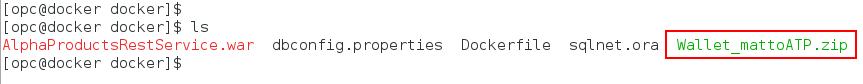
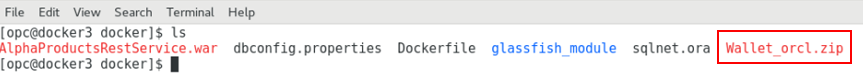
Q/A on Lab 200 fixes and image updates

diff --git a/lab-guides/LabGuide200.md b/lab-guides/LabGuide200.md
@@ -163,7 +163,7 @@ vi dockerkey.pub
 
  ![](images/200/27.PNG)
 
-- **You will (Leave Default) or Type** the following in the `Create Compute Instance` section of the dialog:
+- Type the following in the **Create Compute Instance** section of the dialog:
 
   ```
   Name: Docker
@@ -204,7 +204,7 @@ vi dockerkey.pub
   ```
   cd /home/opc
   chmod 600 dockerkey
-  ssh -i ./dockerkey opc@129.213.119.105
+  ssh -i ./dockerkey opc@<Paste in Your Public IP>
   ```
 
   ![](images/200/37.PNG)
@@ -218,20 +218,22 @@ Docker and GIT are required for the subsuquent labs. You will install the Docker
   ```
   sudo -s
   yum install docker-engine
+  ```
+
+- _During the **yum install docker-engine** command press **Y** when asked if installation is ok._ Screenshot at the end of the Docker installation:
+
+   ![](images/200/38.PNG)
+
+- Next grant the proper privileges to the opc user.
+  ```
   usermod -aG docker opc
   systemctl enable docker
   systemctl start docker
   ```
 
-- **NOTE:** During the `yum install docker-engine` command press `Y` when asked if installation is ok.
-
-- Screenshot at the end of the Docker installation:
-
-   ![](images/200/38.PNG)
-
    ![](images/200/39.PNG)
 
-- **Type** the following:
+- **Type** the following, select **Y** when asked if it is ok to install:
 
   ```
   yum install git
@@ -290,11 +292,11 @@ Set the server to Permissive mode and also ensure that permissive mode survives 
   ![](images/200/44.PNG)
 
 
-# Deploy the AlphaOffice Application using Docker
+# Deploy the AlphaOffice REST Services using Docker
 
-In this section you will again clone the github repository as you did in Lab 100. It contains a Java REST Application that queries the database. Then, you will modify the configuration to point to your ATP database. After successful testing you will create a new Docker image.
+In this section you will clone a github repository that contains a Java REST Application. Then, you will modify the configuration to point to your ATP database. After successful testing you will create a new Docker image.
 
-## Deploy AlphaOffice Product Catalog Application
+## Deploy AlphaOffice REST Services
 
 ### **STEP 1**: Clone the git repository and copy the wallet file
 
@@ -303,33 +305,37 @@ In this section you will again clone the github repository as you did in Lab 100
 - **Type OR Copy and Paste**:
 
   ```
+  cd ~
   git clone https://github.com/derekoneil/monolithic-to-microservice.git
   ```
 
   ![](images/200/45.PNG)
 
-- From the directory you just cloned the repository into **Type**: (Command assumes your in the $HOME directory /home/opc)
-
+- From the directory you just cloned the repository into **Type**:
   ```
   cd monolithic-to-microservice/lab-resources/docker
   ```
 
-- Here you will find the baseline `AlphaProductsRestService.war` file, `dbconfig.properties`, `sqlnet.ora` and a `Dockerfile`:
-
+- Type **ls** and browse the baseline **AlphaProductsRestService.war** file, **dbconfig.properties**, **sqlnet.ora** and a **Dockerfile**:
+  ```
+  ls
+  ```
   ![](images/200/46.PNG)
 
-- **FROM YOUR VNC CLIENT**: Open up another Terminal session, CD to where your dockerkey file is and then copy the database wallet file you downloaded in Lab 100  (Recall that the file is in `/home/opc/Downloads`). You will scp this wallet file into the `/home/opc/monolithic-to-microservice/lab-resources/docker` directory within your OCI VM.
+- Open up a new Terminal window by Right-click on the Desktop and select **Open Terminal**
 
-  **NOTE:** If your wallet file is a different name than **Wallet_orcl.zip** then substitute your name as appropriate. This example uses `Wallet-mattoATP`:
+  ![](images/100/image01.png)
+
+
+- Copy the database wallet file you downloaded in Lab 100  (Recall that the file is in `/home/opc/Downloads`). You will scp this wallet file into the `/home/opc/monolithic-to-microservice/lab-resources/docker` directory.
 
   ```
-  cd <into the location where your dockerkey file is>
-  scp -i ./dockerkey /home/opc/Downloads/Wallet-mattoATP.zip opc@<YOUR-PUBLIC-IP>:/home/opc/monolithic-to-microservice/lab-resources/docker
+  scp -i ./dockerkey /home/opc/Downloads/Wallet_orcl.zip opc@<YOUR-PUBLIC-IP>:/home/opc/monolithic-to-microservice/lab-resources/docker
   ```
 
   ![](images/200/46-1.1.PNG)
 
-- **BACK IN YOUR SSH SESSION**: The wallet file should now be in the `/home/opc/monolithic-to-microservice/lab-resources/docker` directory on the OCI VM:
+- **Return the the ssh session connected into your OCI VM.** and type **ls**. You should see the wallet file in the directory before proceeding.
 
   ![](images/200/46-1.3.PNG)
 
@@ -337,7 +343,10 @@ In this section you will again clone the github repository as you did in Lab 100
 
 In this step you are going to edit the `dbconfig.properties` file to add your database instance connection name.
 
-- Using **vi** edit the **dbconfig.properties** file and add your connection property. In this example the ATP DB instance called `mattoATP` is used. The DB Connection information can be found in the OCI Console under your ATP database instance link.
+- Using **vi** edit the **dbconfig.properties** file and add your connection property.
+```
+vi dbconfig.properties
+```
 
 - From the OCI console select the **hamburger menu** in the upper left hand side on the page. Click the **Autonomous Transaction Processing** link:
 
@@ -358,11 +367,11 @@ In this step you are going to edit the `dbconfig.properties` file to add your da
 
   We will be using the **MEDIUM** connection name in the application.
 
-- For this example the modifed `dbconfig.properties` looks like:
+- For this example the modifed **dbconfig.properties** looks like:
 
   ![](images/200/46-1.6.PNG)
 
-- **If your NOT using the default wallet name of `Wallet_orcl.zip` then you will also need to edit the `Dockerfile`** to point to your instance specific wallet, otherwise, you can skip ahead to Step 3.
+- _If your NOT using the default wallet name of `Wallet_orcl.zip` then you will also need to edit the **Dockerfile**_ to point to your instance specific wallet, otherwise, you can skip ahead to Step 3.
 
 - If applicable, **edit** the following two locations within the `Dockerfile`:
 
@@ -370,7 +379,7 @@ In this step you are going to edit the `dbconfig.properties` file to add your da
 
 ### **STEP 3**: Build the Docker image
 
-The docker build will take a baseline java ready docker image from Docker Hub, add the Glassfish 4.1.1 application server along with your ATP DB instance wallet file and then extract the `AlphaProductsRestService.war` inside the container. The application server will be running on port 8080. If you recall you opened port 8080 in the Networking Security List earlier in this lab so access from the internet can occur.
+The docker build will take a baseline java ready docker image from Docker Hub, add the Glassfish 4.1.1 application server along with your ATP DB instance wallet file and then extract the **AlphaProductsRestService.war** inside the container. The application server will be running on port 8080. If you recall you opened port 8080 in the Networking Security List earlier in this lab so access from the internet can occur.
 
 - **Type:**
 
@@ -378,7 +387,7 @@ The docker build will take a baseline java ready docker image from Docker Hub, a
   docker build -t alphaoffice .
   ```
 
-  The build will take a few minutes and should be successfull:
+  The build will take a few minutes and should be successful:
 
   ![](images/200/47.PNG)
 
@@ -399,6 +408,7 @@ The docker build will take a baseline java ready docker image from Docker Hub, a
   ```
   docker run -d --name alphaoffice -p=8080:8080 alphaoffice
   ```
+  ![](images/200/LabGuide200-9f6c655b.png)
 
 - **docker ps** shows the running container. You'll note the asadmin command we stipulated in the CMD of the Dockerfile build is executed and running (This starts up the Glassfish app server):
 
@@ -408,7 +418,7 @@ The docker build will take a baseline java ready docker image from Docker Hub, a
 
   ![](images/200/50.PNG)
 
-### **STEP 4**: Copy the the database properties file into the container
+### **STEP 4**: Copy the database properties file into the container
 
 In this step you will copy the `dbconfig.properties` file modifed in a previous step into the running container. Then you will go into the container and verify all the copied and modied files look good and are in their proper locations.
 
@@ -422,7 +432,7 @@ In this step you will copy the `dbconfig.properties` file modifed in a previous 
 
   ![](images/200/53.PNG)
 
-### **STEP 5**: Verify files inside the container and deploy the `AlphaProductsRestService` application
+### **STEP 5**: Verify files inside the container and deploy the AlphaProductsRestService application
 
 - **Type OR Copy and Paste:**
 
@@ -474,9 +484,9 @@ In this step you will copy the `dbconfig.properties` file modifed in a previous 
 
 - **Type: `exit` twice** to get out of the admin tool and the container.
 
-- In a browser, test the application by using the Public IP Address of the VM instance.
+    ![](images/200/LabGuide200-8a329fb9.png)
 
-  **NOTE:** If you have a JSON format add-on in your browser the data will be easier to read... however, if you don't it will still show up as a text stream. (**Include the trailing slash!**)
+- In a browser, test the application by using the Public IP Address of the VM instance. The first time you test the endpoint. It may take several seconds before you see data returned...
 
   ```
   http://<YOUR-PUBLIC-IP>:8080/AlphaProductsRestService/webresources/restCall/
@@ -484,7 +494,6 @@ In this step you will copy the `dbconfig.properties` file modifed in a previous 
   Example:
   `http://129.213.109.189:8080/AlphaProductsRestService/webresources/restCall/`
 
-  **Another NOTE: Be patient**, the first time you test. It may take several seconds before you see data returned...
 
   ![](images/200/58.PNG)
 
@@ -499,7 +508,7 @@ In this step you will copy the `dbconfig.properties` file modifed in a previous 
 
   ![](images/200/59.PNG)
 
-- If you get a timeout or receive an error you can check the container logs by typing:
+- At any point you can check the container logs by typing:
 
   ```
   docker logs alphaoffice

diff --git a/lab-guides/LabGuide100.md b/lab-guides/LabGuide100.md
@@ -6,8 +6,6 @@
 
 In this lab you will use your Oracle Cloud Trial Account to upload a Data Pump export file to Object Storage and leverage SQL Developer to import the Data Pump export file into an Autonomous Transaction Processing (ATP) Database.
 
-***To log issues***, click here to go to the [github oracle](https://github.com/oracle/learning-library/issues/new) repository issue submission form.
-
 ## Objectives
 
 - Clone GIT Repository
@@ -37,7 +35,7 @@ While still connected to the Client Image using VNC Viewer, complete the followi
 	![](images/100/image02.png)
 
 	**Note:**  The GIT clone creates the ```monolithic-to-microservice``` directory which contains contents used throughout the labs. You can validate the clone by entering the following command.
-	
+
     ```
     ls -l monolithic-to-microservice/
 	```
@@ -109,14 +107,14 @@ While still connected to the Client Image using VNC Viewer, complete the followi
 
   - Captue the values for **REGION, BUCKET, OBJECT_STORAGE_NAMESPACE, FILENAME** in the text editor from the same screen you uploaded the DMP file.
 
-	![](images/100/image39a.png)	
+	![](images/100/image39a.png)
 
   - Your text editor should look similar to this
-  
-	![](images/100/image11b.png)	
-	
+
+	![](images/100/image11b.png)
+
 	**Note:** Your values for **REGION** and **OBJECT_STORAGE_NAMESPACE** may/will be different.
-	
+
 ### **STEP 5**: Create OCI User
 
   - Click the **Menu icon** in the upper left corner to open the navigation menu. Under the **Governance and Administration** section, select **Identity** and select **Users**.
@@ -277,13 +275,13 @@ While still connected to the Client Image using VNC Viewer, complete the followi
   - On **Step 1** of the **Import Wizard**, select and/or enter the following and click **Next**.  You will use the values you collected in the text editor at the end of **Step 4**.
 
 	**Note:** Your values for **REGION** and **OBJECT_STORAGE_NAMESPACE** may/will be different.
-	
+
 	- **Type of Import:** ```Full```
 	- **Credentials or Directories:** ```IMPDP_OBJ_STORE``` (Created in STEP 10)
 	- **File Names or URI:** ```https://swiftobjectstorage.{REGION}.oraclecloud.com/v1/{OBJECT_STORAGE_NAMESPACE}/{BUCKET}/{FILENAME}``` (Created in STEP 4)
 
-	![](images/100/image11b.png)	
-	
+	![](images/100/image11b.png)
+
 	![](images/100/image38.png)
 
   - Accept the Defaults and click **Next** on **Step 2** of the **Import Wizard**. It can take 30 seconds for the **Next** button to be enabled.
